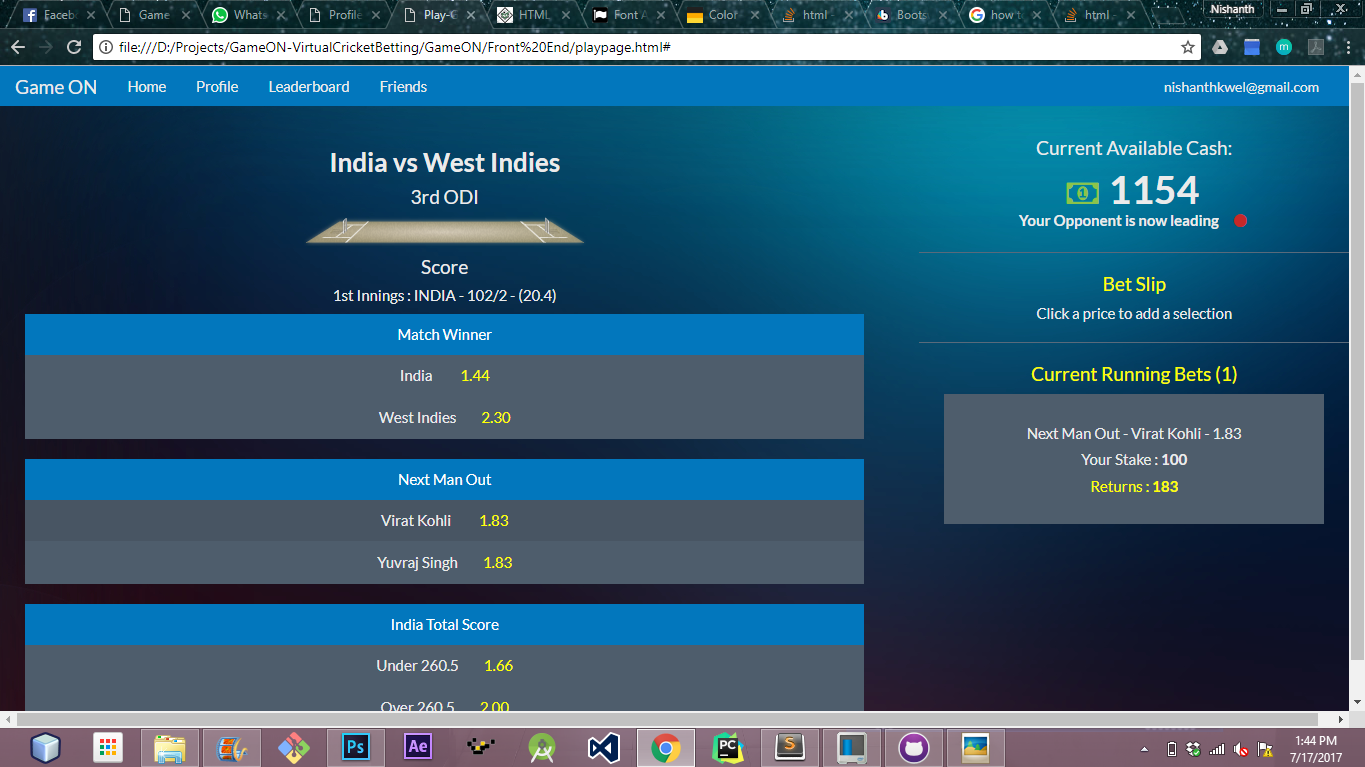
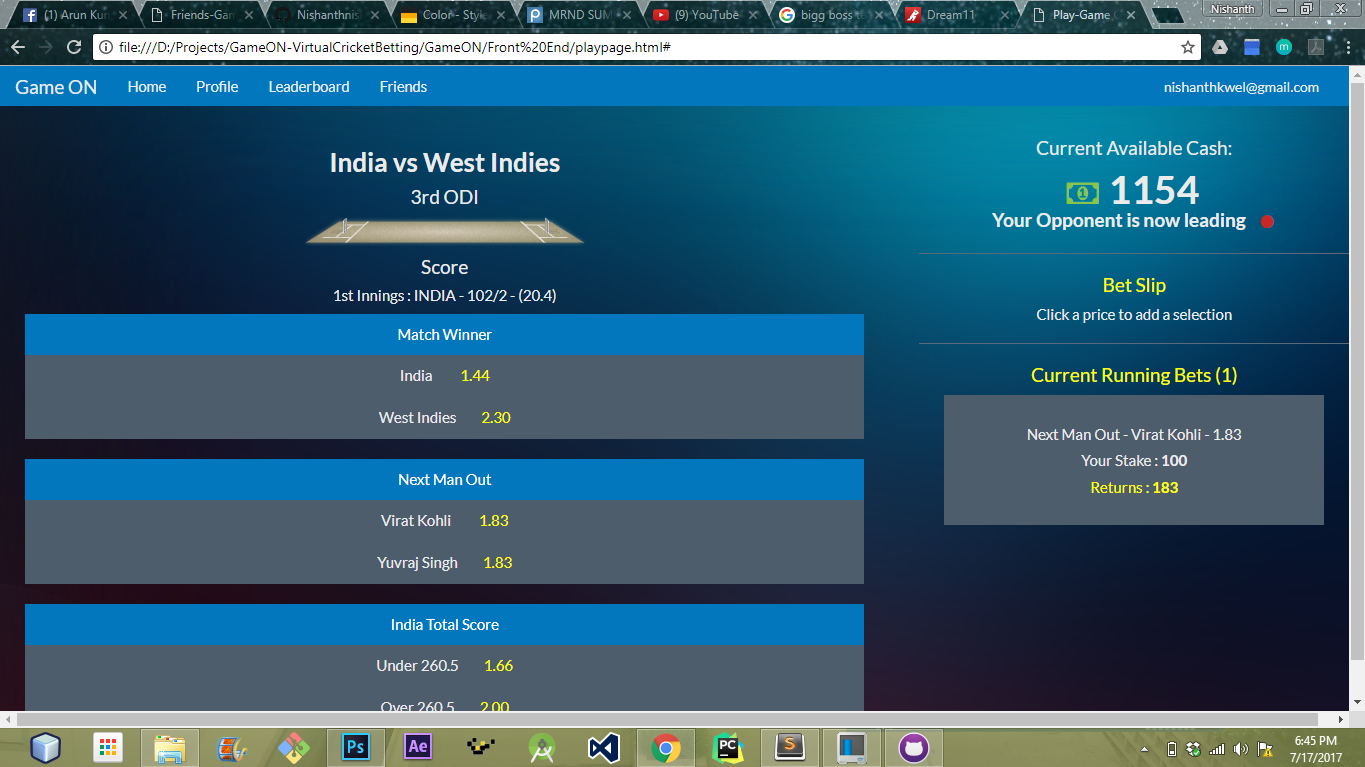
Updated Friends Page

diff --git a/GameON/Front End/friendspage.html b/GameON/Front End/friendspage.html
@@ -17,6 +17,9 @@
 		input[type=text]:focus {
 		    width: 60%;
 		}
+		.friendrequest{
+			margin-top: -10px;
+		}
 	</style>
 </head>
 <body background="images/background3.jpg">
@@ -53,7 +56,24 @@
 </center>
 <br><br><hr>
 <CENTER>
-<h3>Pending Friend Requests</h3>
+<h3>Pending Friend Requests  (2) </h3>
+<div class="well" style="margin-left: 50px; margin-right: 50px;width: 50%">
+	<div class="friendrequest">
+		<img src="images/nikki.jpg" class="img-circle" alt="Cinque Terre" width="60" height="60" style="margin-left: 40px; margin-top: 25px;margin-bottom: 25px;box-shadow: 0 4px 8px 0 rgba(0, 0, 0, 0.2), 0 6px 20px 0 rgba(0, 0, 0, 0.19);">
+		<a href="#" style="text-decoration: None; color: white"><h4 style="display: inline;margin-left: 20px;">Nikki Tricky</h4></a>
+		<a href="#" class="btn btn-success" style="margin-left: 50px; border-radius: 20px; display: inline;">Accept</a>
+		<a href="#" class="btn btn-success" style="margin-left: 30px; border-radius: 20px;display: inline;">Ignore</a>
+		<hr style="margin-top: -15px;">
+	</div>
+
+	<div class="friendrequest">
+		<img src="images/arun.jpg" class="img-circle" alt="Cinque Terre" width="60" height="60" style="margin-left: 40px; margin-top: 25px;margin-bottom: 25px;box-shadow: 0 4px 8px 0 rgba(0, 0, 0, 0.2), 0 6px 20px 0 rgba(0, 0, 0, 0.19);">
+		<a href="#" style="text-decoration: None; color:white"><h4 style="display: inline;margin-left: 20px;">Arun Kumar</h4></a>
+		<a href="#" class="btn btn-success" style="margin-left: 50px; border-radius: 20px">Accept</a>
+		<a href="#" class="btn btn-success" style="margin-left: 30px; border-radius: 20px;">Ignore</a>
+		<hr style="margin-top: -15px;">
+	</div>
+</div>
 </CENTER>
 </body>
 </html>

diff --git a/GameON/Front End/playpage.html b/GameON/Front End/playpage.html
@@ -86,7 +86,7 @@
 			<!--
 			<h5 style="display: inline;">You are now leading</h5><i class="fa fa-circle" aria-hidden="true" style="color: #689F38; display: inline; margin-left: 15px;"></i>
 			-->
-			<h5 style="display: inline;"><b>Your Opponent is now leading</b></h5><i class="fa fa-circle" aria-hidden="true" style="color: #C62828; display: inline; margin-left: 15px;"></i>
+			<h4 style="display: inline;"><b>Your Opponent is now leading</b></h4><i class="fa fa-circle" aria-hidden="true" style="color: #C62828; display: inline; margin-left: 15px;"></i>
 			<br><hr>
 			<h4 style="color:yellow">Bet Slip</h4>
 			<h5>Click a price to add a selection</h5>
